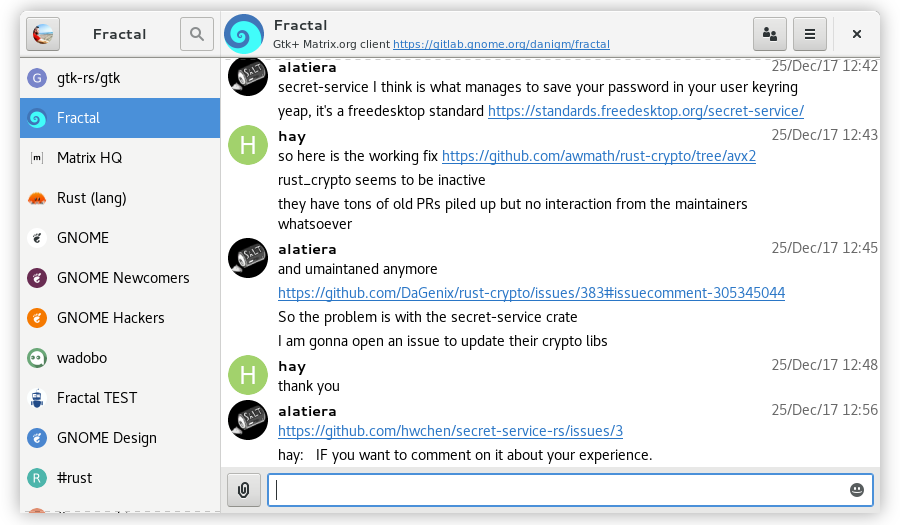
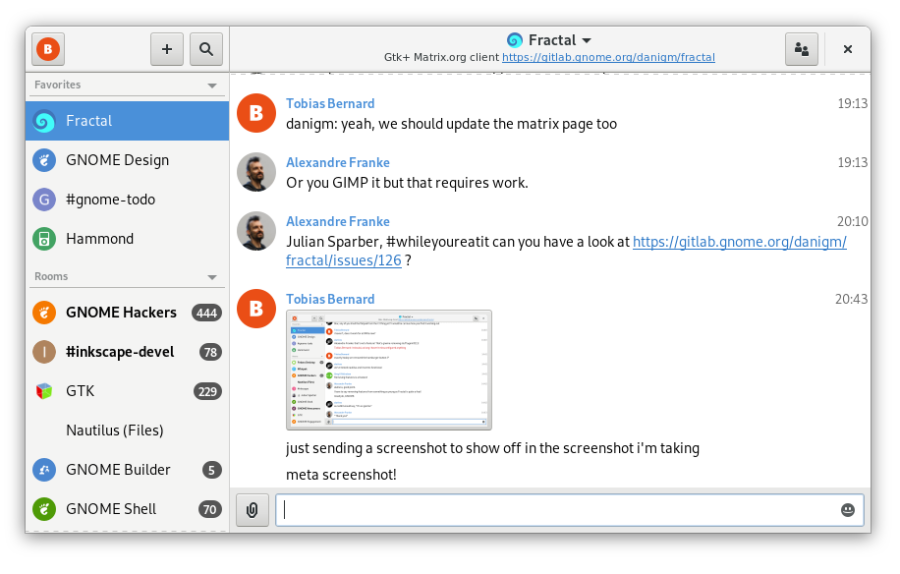
Update fractal client information
Fractal has been moved to the gnome official group World, so the
repository has changed.

I've also updated the screenshot and the client maturity because the
client changes a little from the last update.

Changed region(s): [[0.0, 0.0, 0.9956, 1.0]]

diff --git a/jekyll/_posts/projects/2017-08-31-fractal.md b/jekyll/_posts/projects/2017-08-31-fractal.md
@@ -5,7 +5,7 @@ categories: projects client
 thumbnail: /docs/projects/images/fractal-small.png
 author: danigm
 description: Fractal is a Matrix Client written in Rust.
-maturity: Early alpha
+maturity: Beta
 ---
 
 ![screenshot](/docs/projects/images/fractal-large.png "{{ page.title }}")
@@ -13,4 +13,4 @@ maturity: Early alpha
 # {{ page.title }}
 Fractal is a Gtk+ Matrix Client written in Rust.
 
-Get the code from [github](https://gitlab.gnome.org/danigm/fractal).
+Get the code from [Gnome gitlab](https://gitlab.gnome.org/World/fractal).
